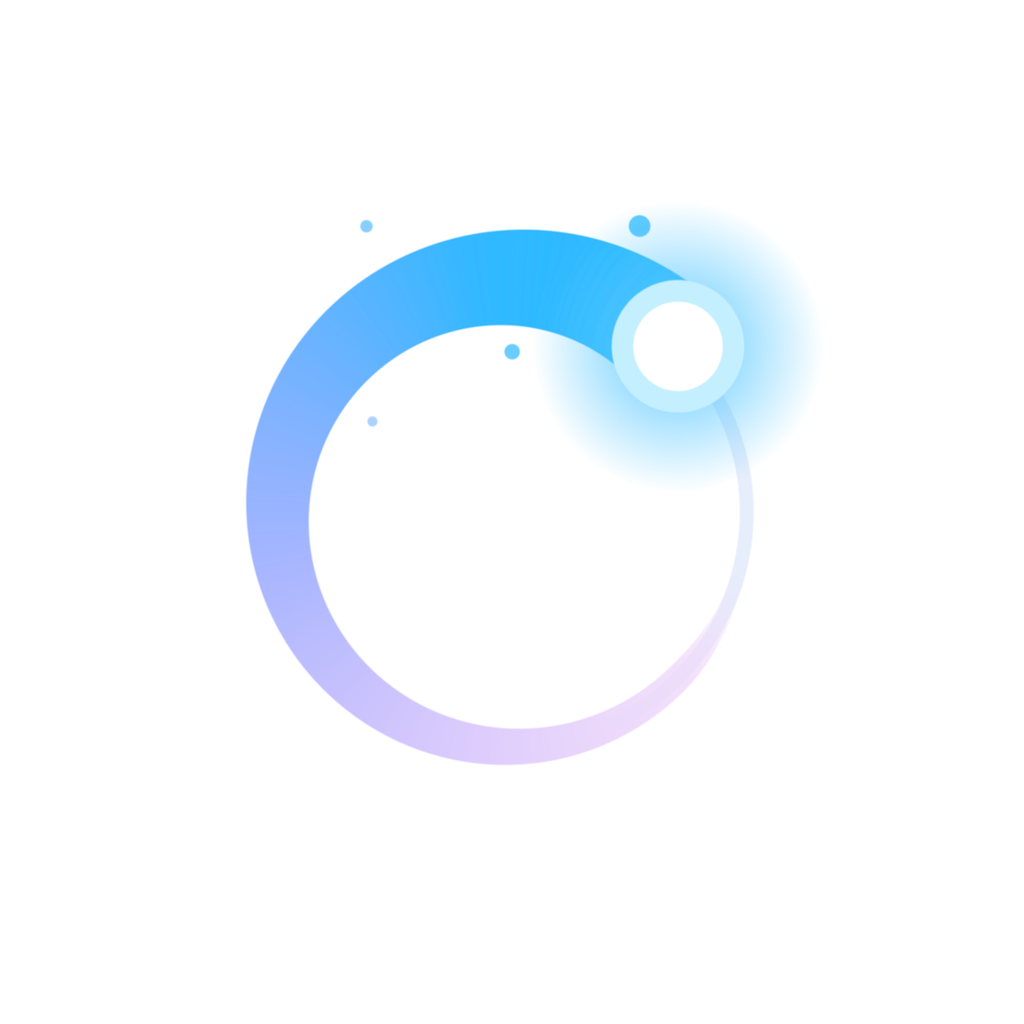
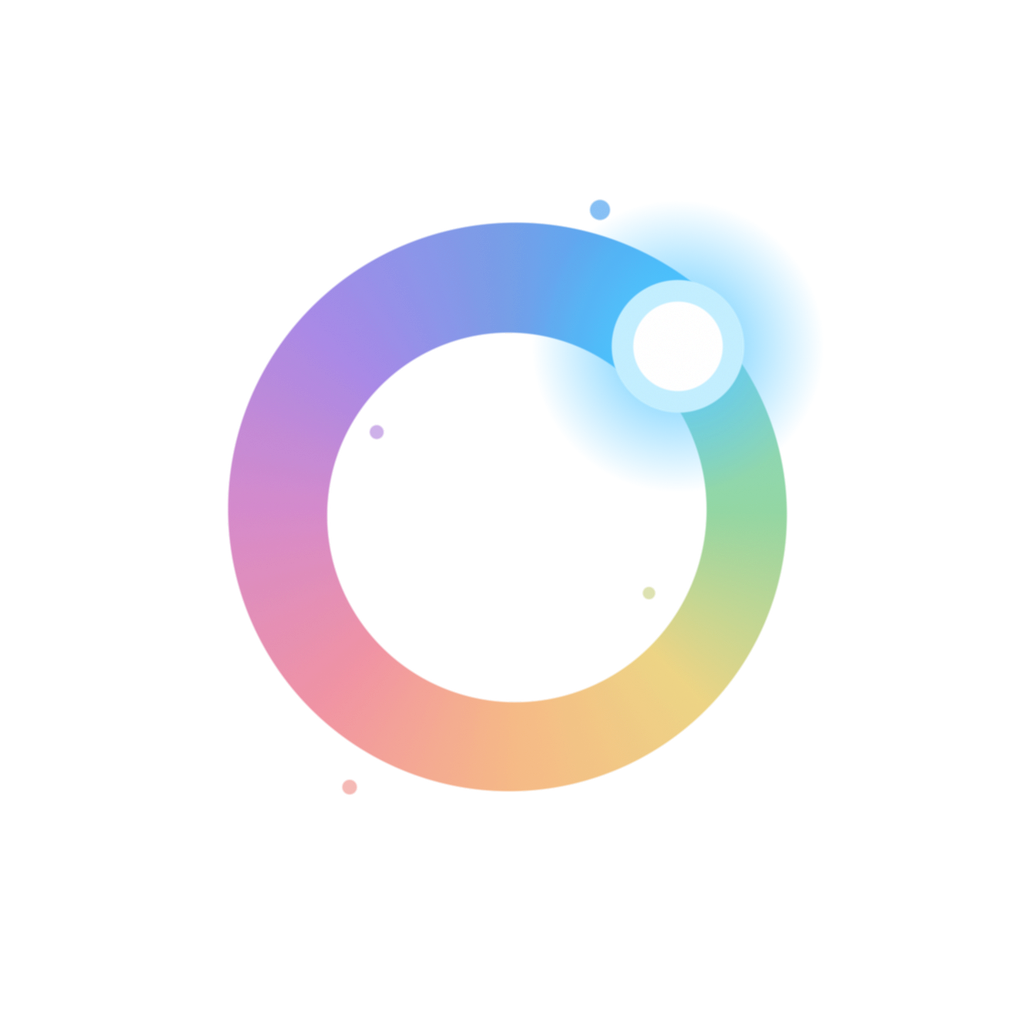
图标环改为整圈八色渐变色轮，接缝藏进彗头圆盘，终分辨率抖动消除角向色带

Changed region(s): [[0.2188, 0.1875, 0.7812, 0.7812], [0.3125, 0.75, 0.3438, 0.7812]]

diff --git a/assets/render_icon.py b/assets/render_icon.py
@@ -20,16 +20,23 @@ S = 2048                  # supersampled square, downsampled 2x at the end
 CX = CY = S / 2
 R = 304.0 * 2
 HEAD_DEG = -45.0
-TAIL_SWEEP = 300.0
-W_HEAD, W_TAIL = 148.0 * 2, 30.0 * 2
+TAIL_SWEEP = 360.0
+W_HEAD, W_TAIL = 150.0 * 2, 100.0 * 2
 EDGE = 2.4                # soft-edge half-width in supersampled pixels
 
+# The first icon's colour wheel, saturated a touch: hues spaced evenly
+# around the full circle so no side of the ring outweighs another. t runs
+# from the thin tip (just ahead of the head) back to the head itself.
 STOPS = [
-    (0.00, (0xC9, 0x43, 0xDE)),   # magenta, fades out
-    (0.28, (0x8B, 0x53, 0xF7)),   # violet
-    (0.52, (0x47, 0x6B, 0xFF)),   # blue
-    (0.82, (0x00, 0xA8, 0xFF)),   # azure (the app's running colour)
-    (1.00, (0x2E, 0xBE, 0xFF)),   # sky blue into the head
+    (0.000, (0x52, 0xC4, 0xC0)),   # teal, in front of the head under the glow
+    (0.125, (0x6E, 0xC9, 0x83)),   # green
+    (0.250, (0xE8, 0xC8, 0x60)),   # gold
+    (0.375, (0xF5, 0xA8, 0x68)),   # apricot
+    (0.500, (0xEE, 0x7E, 0x92)),   # rose
+    (0.625, (0xD0, 0x7A, 0xC4)),   # orchid
+    (0.750, (0x9E, 0x7F, 0xE6)),   # violet
+    (0.875, (0x6F, 0x9B, 0xE8)),   # periwinkle
+    (1.000, (0x2E, 0xBE, 0xFF)),   # azure into the head (the running colour)
 ]
 
 yy, xx = np.mgrid[0:S, 0:S].astype(np.float64)
@@ -43,34 +50,18 @@ t = 1.0 - delta / TAIL_SWEEP
 in_tail = delta <= TAIL_SWEEP
 tc = np.clip(t, 0.0, 1.0)
 
-TRACK_W = 18.0 * 2
-
-# --- tail alpha, computed first so the track can yield to it -----------------
-# Over the last tenth the band narrows into the track and fades to nothing,
-# so the tip merges instead of ending in a squared-off cut.
-width = W_TAIL + (W_HEAD - W_TAIL) * tc ** 1.4
-k_tip = np.clip(tc / 0.10, 0.0, 1.0)
-k_tip = k_tip * k_tip * (3 - 2 * k_tip)
-width = TRACK_W + (width - TRACK_W) * k_tip
+# --- ring band ---------------------------------------------------------------
+# The band spans the full circle; where t wraps from 1 back to 0 the width and
+# opacity step, but that seam sits exactly at the head's angular position and
+# the opaque head disc covers it.
+width = W_TAIL + (W_HEAD - W_TAIL) * tc ** 1.2
 dist = np.abs(r - R)
 coverage = np.clip((width / 2 + EDGE - dist) / (2 * EDGE), 0.0, 1.0)
-fade = (0.13 + 0.87 * tc ** 1.3) * k_tip ** 0.7
+fade = 0.72 + 0.28 * tc ** 1.3
 tail_a = np.where(in_tail, coverage * fade, 0.0)
 
-# --- orbit track: a faint complete ring under the comet ----------------------
-# It closes the circle visually where the tail has faded out, which is what
-# keeps the icon from reading as a lone crescent. Where the tail actually
-# covers it the track must vanish, or its extra alpha shows as a darker
-# stripe running inside the band.
-track_a = np.clip((TRACK_W / 2 + EDGE - dist) / (2 * EDGE), 0.0, 1.0) * 0.30
-track_a = track_a * np.clip(1.0 - tail_a / 0.22, 0.0, 1.0)
-track_rgb = np.zeros((S, S, 3))
-track_rgb[..., 0] = 0xAA
-track_rgb[..., 1] = 0xC2
-track_rgb[..., 2] = 0xF2
-
-rgb = track_rgb.copy()
-alpha = track_a.copy()
+rgb = np.zeros((S, S, 3))
+alpha = np.zeros((S, S))
 
 
 def over(a_new, rgb_new):
@@ -119,10 +110,10 @@ def disc_at(cx, cy, radius, colour, a_max=1.0):
 # (position along the tail, radial offset from the ring, radius, opacity).
 # Colours follow the tail at that point, lightened toward white.
 SPARKS = [
-    (0.93,  102.0, 14.0, 0.95),
-    (0.85,  -96.0, 10.0, 0.80),
-    (0.76,  112.0,  8.0, 0.65),
-    (0.66,  -88.0,  6.5, 0.50),
+    (0.92,  104.0, 13.0, 0.95),
+    (0.71, -100.0,  9.0, 0.80),
+    (0.46,  110.0,  9.5, 0.80),
+    (0.21,  -98.0,  8.0, 0.70),
 ]
 for st, off, rad, a_max in SPARKS:
     ang = np.radians(angle(st))
@@ -152,8 +143,14 @@ over(glow_a, glow_rgb)
 disc_at(hx, hy, 86.0 * 2, (0xC4, 0xEF, 0xFF))
 disc_at(hx, hy, 58.0 * 2, (0xFF, 0xFF, 0xFF))
 
-art = np.dstack([rgb, alpha[..., None] * 255]).astype(np.uint8)
-layer = Image.fromarray(art).resize((1024, 1024), Image.LANCZOS)
+# Stay in float through the downsample and dither at the final resolution:
+# noise added before averaging gets averaged away again, and the slow angular
+# gradient then shows its 8-bit steps as radial bands.
+art = np.dstack([rgb, alpha[..., None] * 255])
+art = art.reshape(1024, 2, 1024, 2, 4).mean(axis=(1, 3))
+rng = np.random.default_rng(20260831)
+art = art + (rng.random(art.shape) - rng.random(art.shape)) * 0.75
+layer = Image.fromarray(np.clip(art, 0, 255).astype(np.uint8))
 layer_path = ASSETS / "HALO.icon" / "Assets" / "comet.png"
 layer.save(layer_path)
 print("wrote", layer_path)
